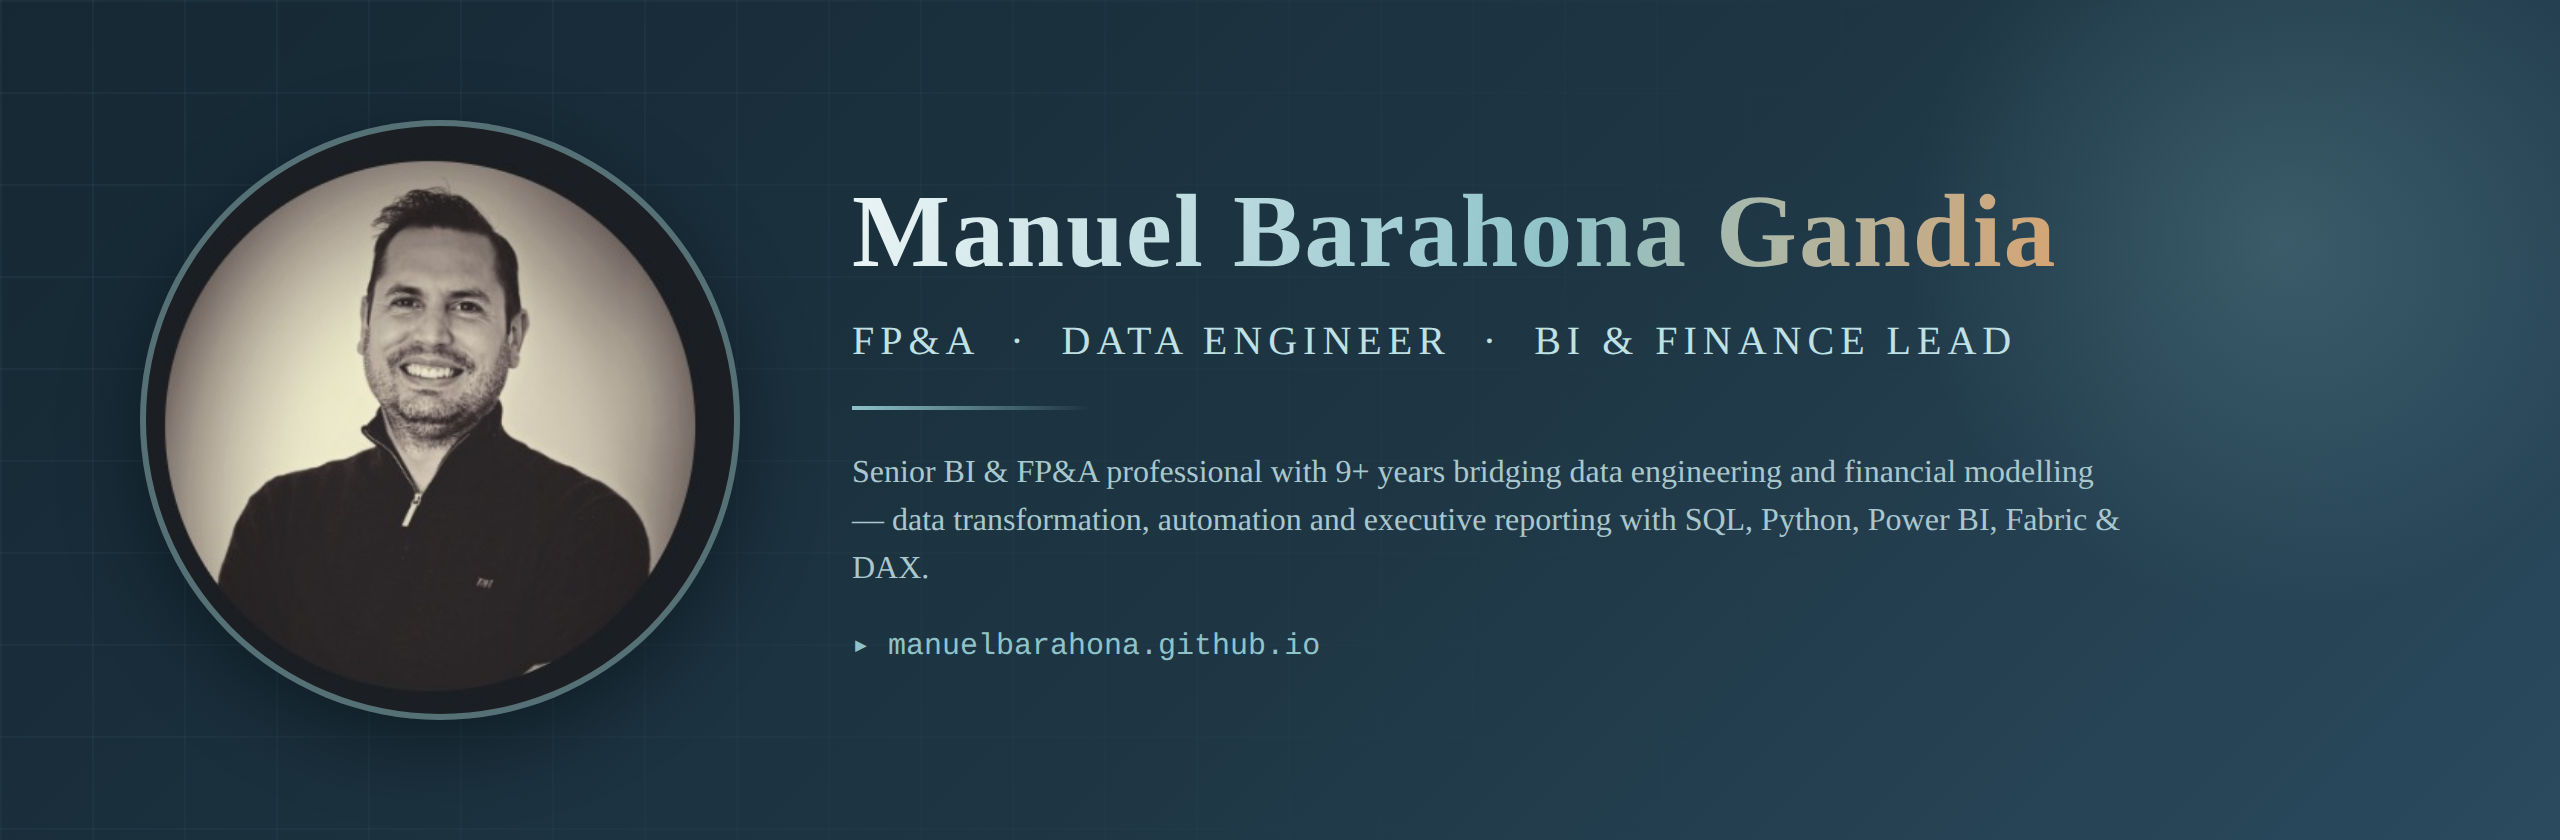
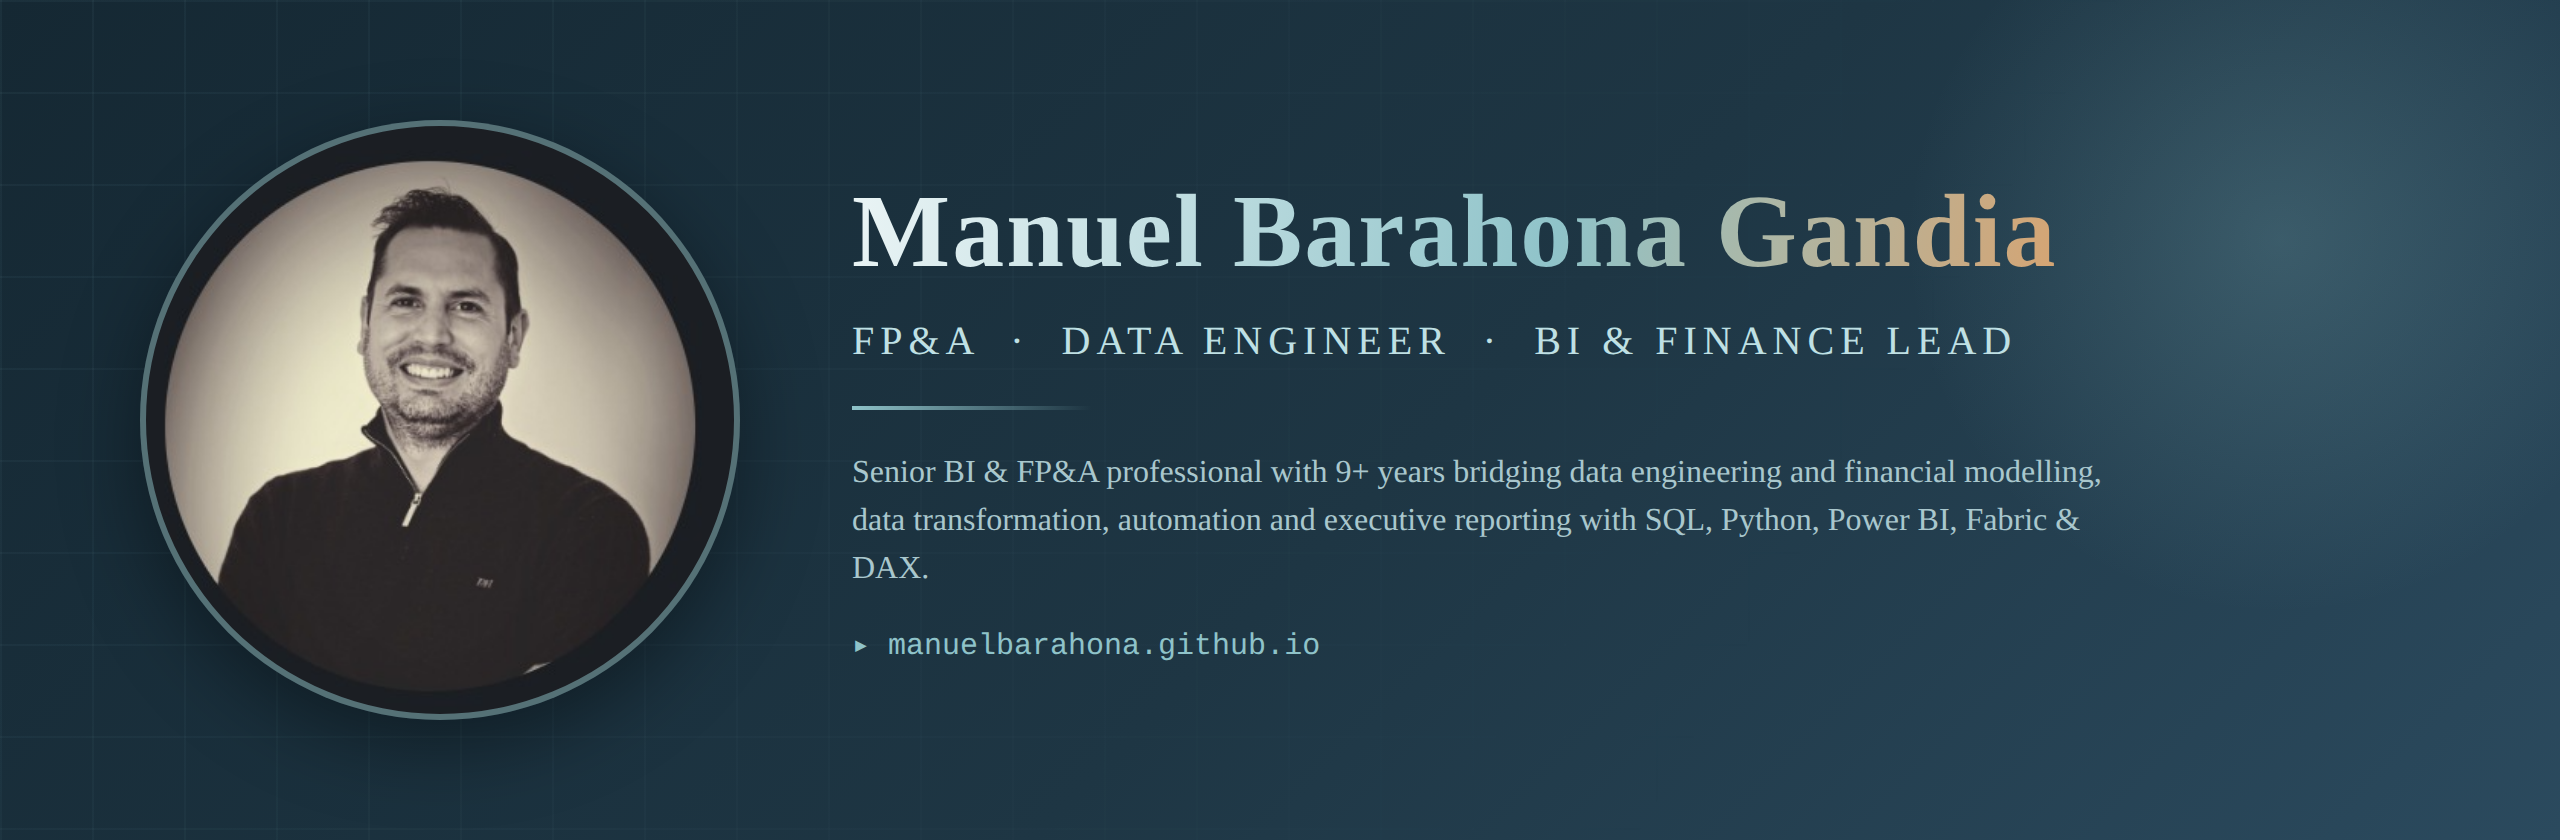
Add files via upload

Changed region(s): [[0.3125, 0.5881, 0.8125, 0.65]]

diff --git a/README.md b/README.md
@@ -1,5 +1,5 @@
 <p align="center">
   <a href="https://manuelbarahona.github.io">
-    <img src="banner.png" alt="Manuel Barahona Gandia — FP&A · Data Engineer · BI & Finance Lead" width="100%">
+    <img src="banner.png" alt="Manuel Barahona Gandia — Strategy · FP&A · Treasury · BI · AI · Data Engineer · BPA" width="100%">
   </a>
 </p>
